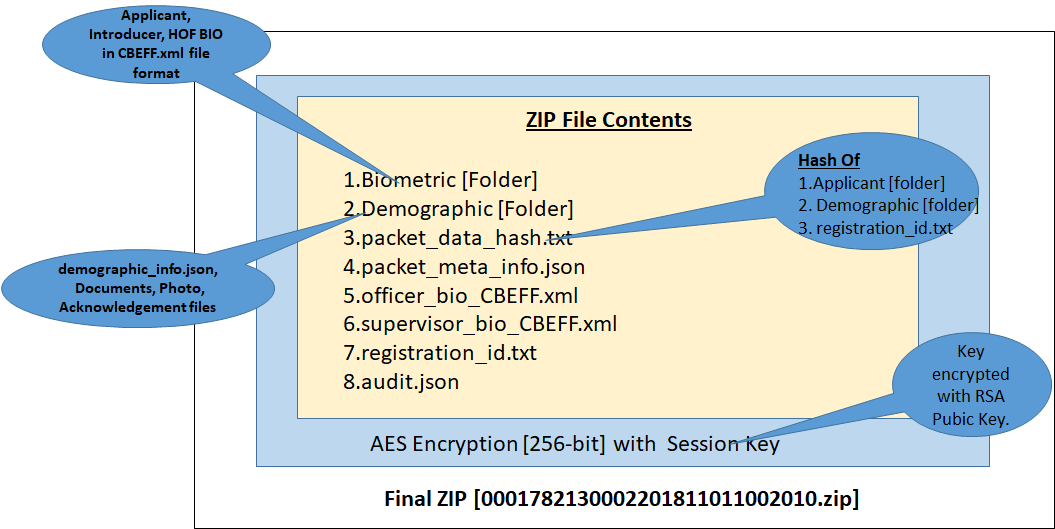
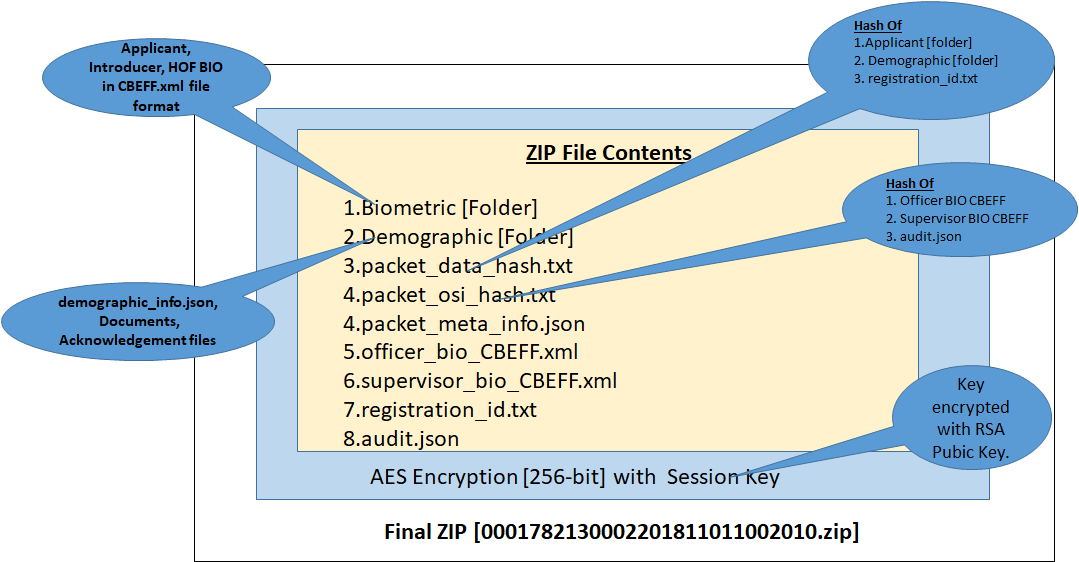
updated registration packet as per the review comment

diff --git a/Registration-Packet.md b/Registration-Packet.md
@@ -51,8 +51,12 @@ This document describes the following aspects
         Resident Information.
 	-   Store the generated Hash in a file and append to the created Zip
 	    object.
+
+5.  **packet_osi_hash.txt**
+    -   Generate Hash for the Biometric of Officer and Supervisor who provided authentication to the registration.
+	-   Store the generated Hash in a file and append to the created Zip object.
     
-5.  **packet_meta_info.json**  
+6.  **packet_meta_info.json**  
     It contains the following attributes.
 
 ***
@@ -326,9 +330,9 @@ This document describes the following aspects
     -   Applicant Type [New/ UIN Update/ Lost UIN]
     -   Pre Registration Id
     -   osiData {Operator and Supervisor authentication info.}
-    -   HashSequence {It provides the hash created sequence}
+    -   HashSequence for both applicant and OSI detail.{It provides the hash created sequence}
 
-6.  **Registration Officer authentication Bio [officer_bio_cbeff.xml]**
+7.  **Registration Officer authentication Bio [officer_bio_cbeff.xml]**
     -   Officer bio should be captured in standard [CBEFF xml](https://github.com/mosip/mosip/wiki/MOSIP-Biometric-Data-Specifications) format.
 7.  **Registration Supervisor authentication Bio [supervisor_bio_cbeff.xml]**
     -   Supervisor bio should be captured in standard [CBEFF xml](https://github.com/mosip/mosip/wiki/MOSIP-Biometric-Data-Specifications) format.
